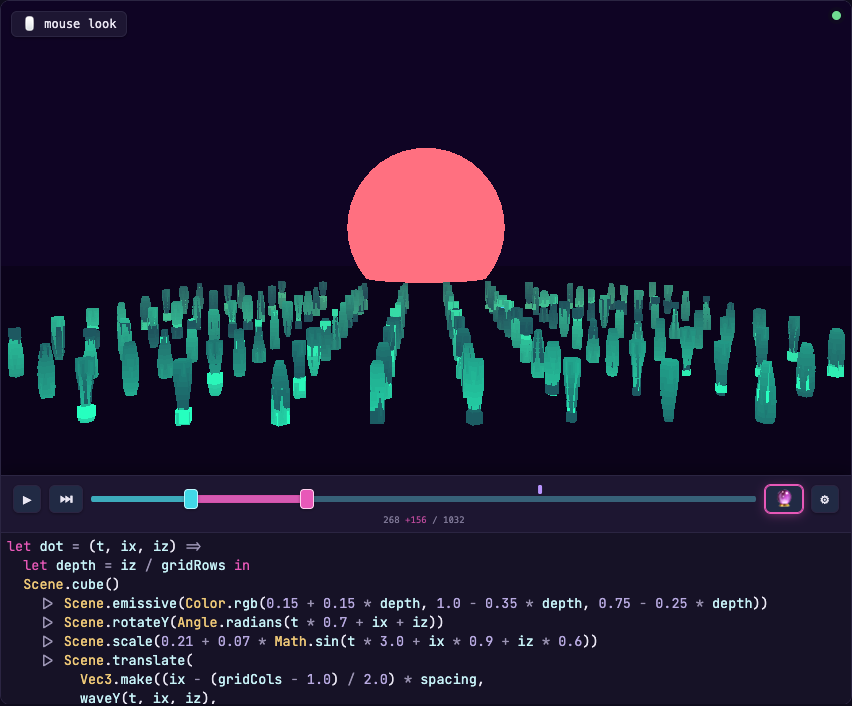
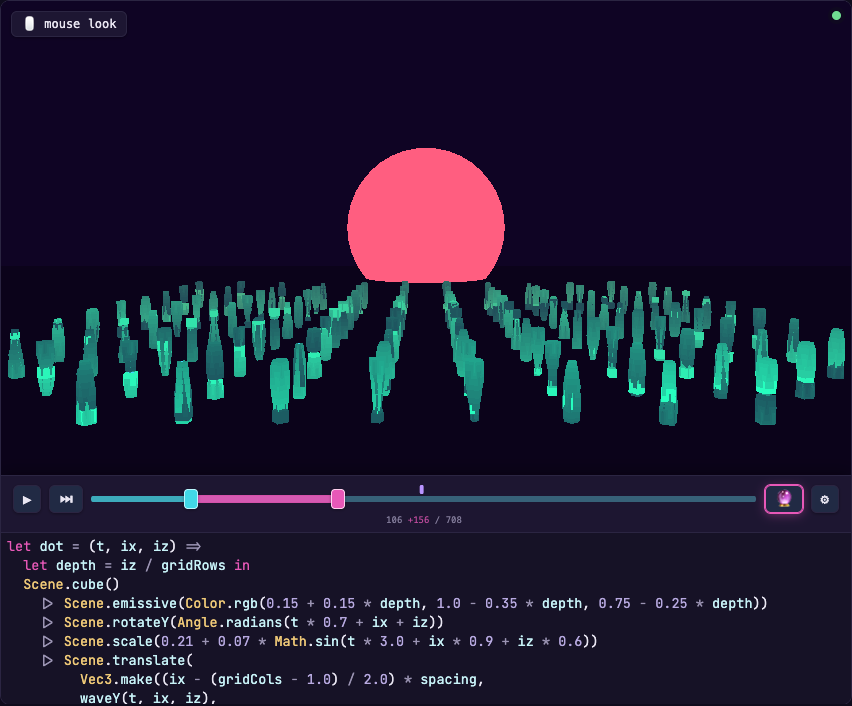
docs: more passes

diff --git a/README.md b/README.md
@@ -34,17 +34,15 @@ Use the scrubber bar to move backward and forward in time, and use the extrapola
 
 When a scene is paused, see live values flowing through the system - visualize what code paths were hit and with what values
 
-![visual of live values shown in the code editor](docs/media/readme-live-evaulation.png)
+![visual of live values shown in the code editor](docs/media/readme-live-evaluation.png)
 
 > Try it yourself at https://functor.games/sandbox?example=monitor
 
 ### Platform support
 
-> note: planned; not all platforms are supported yet
-
-- WebAssembly
-- Native: Windows, MacOS, Linux
-- VR/XR: Quest3, XReal One
+- __Browser:__ WebAssembly
+- __Native Platforms:__ Windows, MacOS, Linux
+- __VR/XR__: Quest3, XReal One (planned, not supported yet)
 
 ## Try it in the browser
 
@@ -75,7 +73,7 @@ the line to add it to your `PATH`.
 > (Prefer to grab it by hand? Download the archive
 for your platform from the
 [releases page](https://github.com/tommy-xr/functor/releases) and extract the
-single `functor` binary:)
+single `functor` binary)
 
 Then scaffold a game and run it — a window opens; edit `my-game/game.fun` and save
 to hot-reload with the model preserved:
@@ -91,7 +89,7 @@ Prefer to build from source? See [DEVELOPMENT.md](DEVELOPMENT.md).
 
 Functor is:
 - A __language__: a tiny, interpreted, F#/Elm inspired language (`.fun`)
-- A __runtime__: a Rust runtime that interprets the `.fun` file and accomodates hot-reload
+- A __runtime__: a Rust runtime that interprets the `.fun` file and accommodates hot-reload
 - An __editor__: at least, a VSCode extension (or editor on the web)
 
 Ultimately, Functor is an _experiment_ - what is game development like with functional programming? And namely if we impose some additional constraints - like pure functions and determinism - can we _improve_ the development experience?